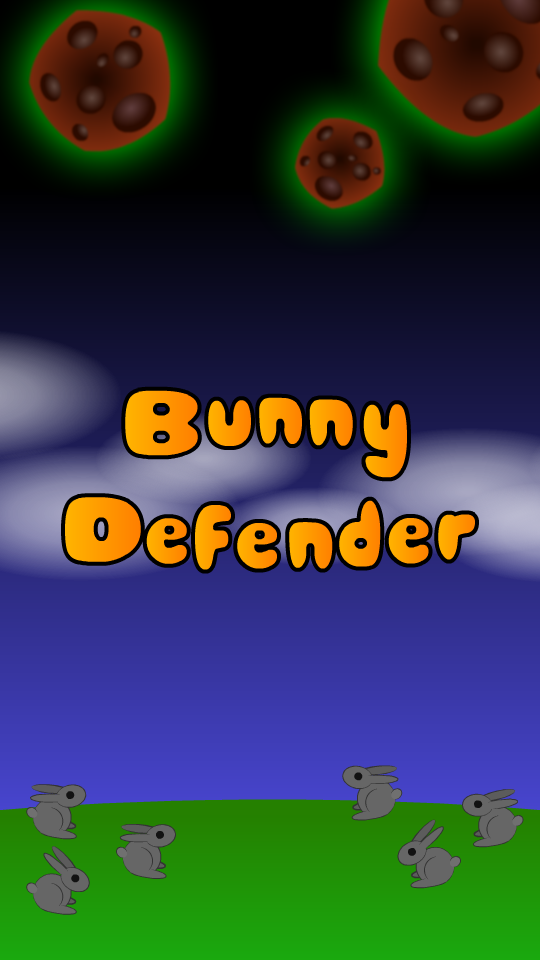
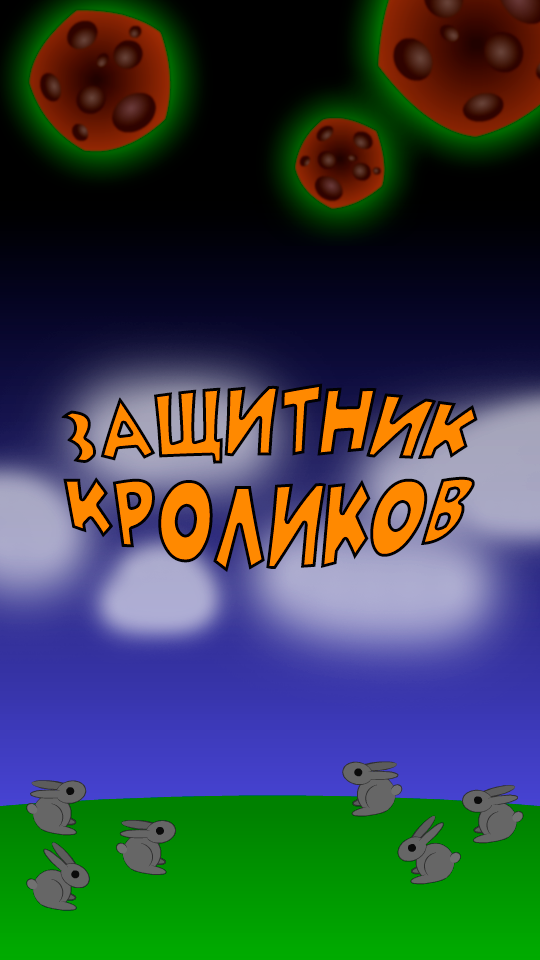
BunnyDefenderRU

diff --git a/js_experiments/games/bunnydefender/Game.js b/js_experiments/games/bunnydefender/Game.js
@@ -44,7 +44,7 @@ BunnyDefender.Game.prototype = {
         this.buildBunnies();
         this.buildSpaceRocks();
         this.buildEmitter();
-        this.countdown = this.add.bitmapText(10, 10, 'eightbitwonder', 'Bunnies Left ' + this.totalBunnies, 20);
+        this.countdown = this.add.bitmapText(10, 10, 'eightbitwonder', 'Осталось кроликов ' + this.totalBunnies, 20);
         this.timer.start();
     },
     
@@ -156,13 +156,13 @@ BunnyDefender.Game.prototype = {
         if(this.totalBunnies <= 0){
             this.gameover = true;
             this.music.stop();
-            this.countdown.setText('Bunnies Left 0');
-            this.overmessage = this.add.bitmapText(this.world.centerX-180, this.world.centerY-40, 'eightbitwonder', 'GAME OVER\n\n' + this.secondsElapsed, 42);
+            this.countdown.setText('Кроликов больше нет');
+            this.overmessage = this.add.bitmapText(this.world.centerX-180, this.world.centerY-40, 'eightbitwonder', 'ИГРА ОКОНЧЕНА\n\n' + this.secondsElapsed, 42);
             this.overmessage.align = "center";
             this.overmessage.inputEnabled = true;
             this.overmessage.events.onInputDown.addOnce(this.quitGame, this);
         }else {
-            this.countdown.setText('Bunnies Left ' + this.totalBunnies);
+            this.countdown.setText('Осталось кроликов ' + this.totalBunnies);
         }
     },
     

diff --git a/js_experiments/games/bunnydefender/StartMenu.js b/js_experiments/games/bunnydefender/StartMenu.js
@@ -13,7 +13,7 @@ BunnyDefender.StartMenu.prototype = {
 		startBG.inputEnabled = true;
 		startBG.events.onInputDown.addOnce(this.startGame, this);
 		
-		startPrompt = this.add.bitmapText(this.world.centerX-155, this.world.centerY+180, 'eightbitwonder', 'Touch to Start!', 24);
+		startPrompt = this.add.bitmapText(this.world.centerX-155, this.world.centerY+180, 'eightbitwonder', 'Нажмите чтобы начать! ', 24);
 	},
 
 	startGame: function (pointer) {

diff --git a/js_experiments/games/bunnydefender/index.html b/js_experiments/games/bunnydefender/index.html
@@ -1,11 +1,11 @@
 <!DOCTYPE HTML>
-<html>
+<html lang="ru">
 <head>
 	<meta charset="utf-8">
     <meta name="mobile-web-app-capable" content="yes">
     <meta name="viewport" content="width=device-width">
     <link rel="icon" sizes="196x196" href="bunny.png">
-	<title>Bunny Defender</title>
+	<title>Защитник кроликов</title>
     <script src="libs/phaser.js"></script>
     <script src="Boot.js"></script>
     <script src="Preloader.js"></script>
